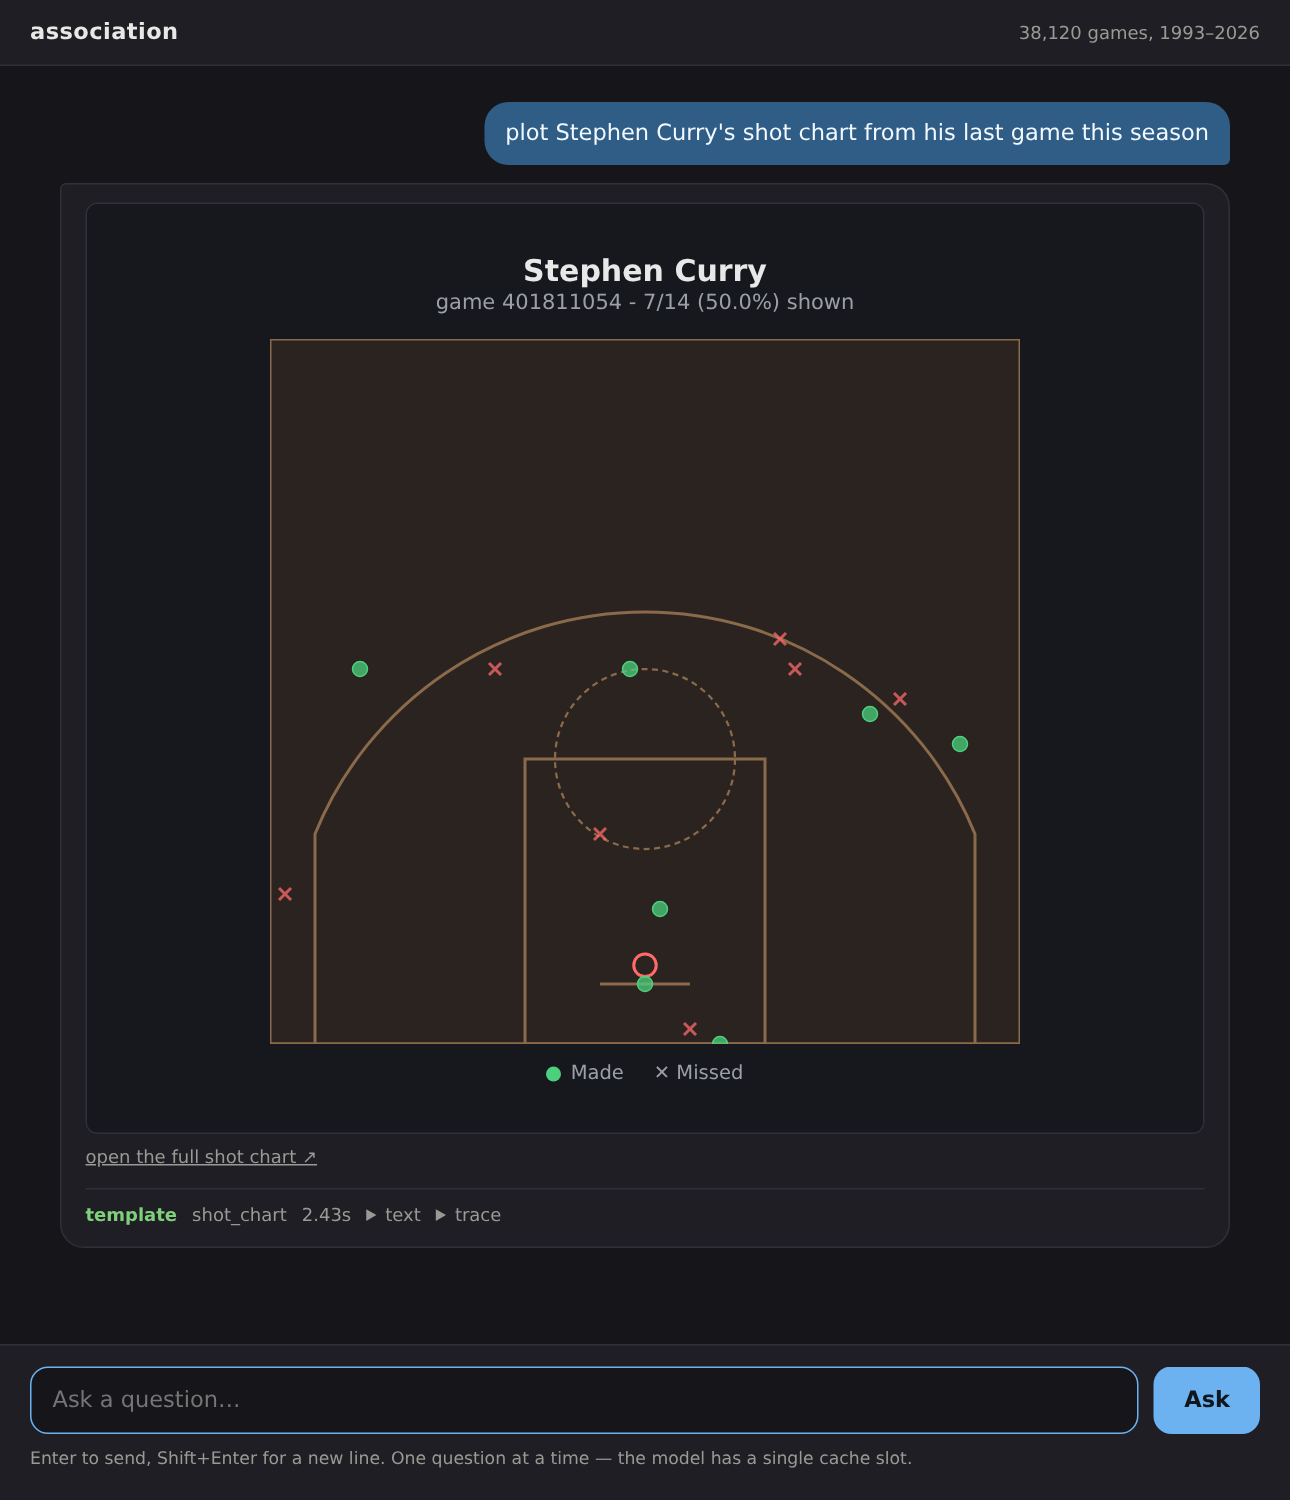
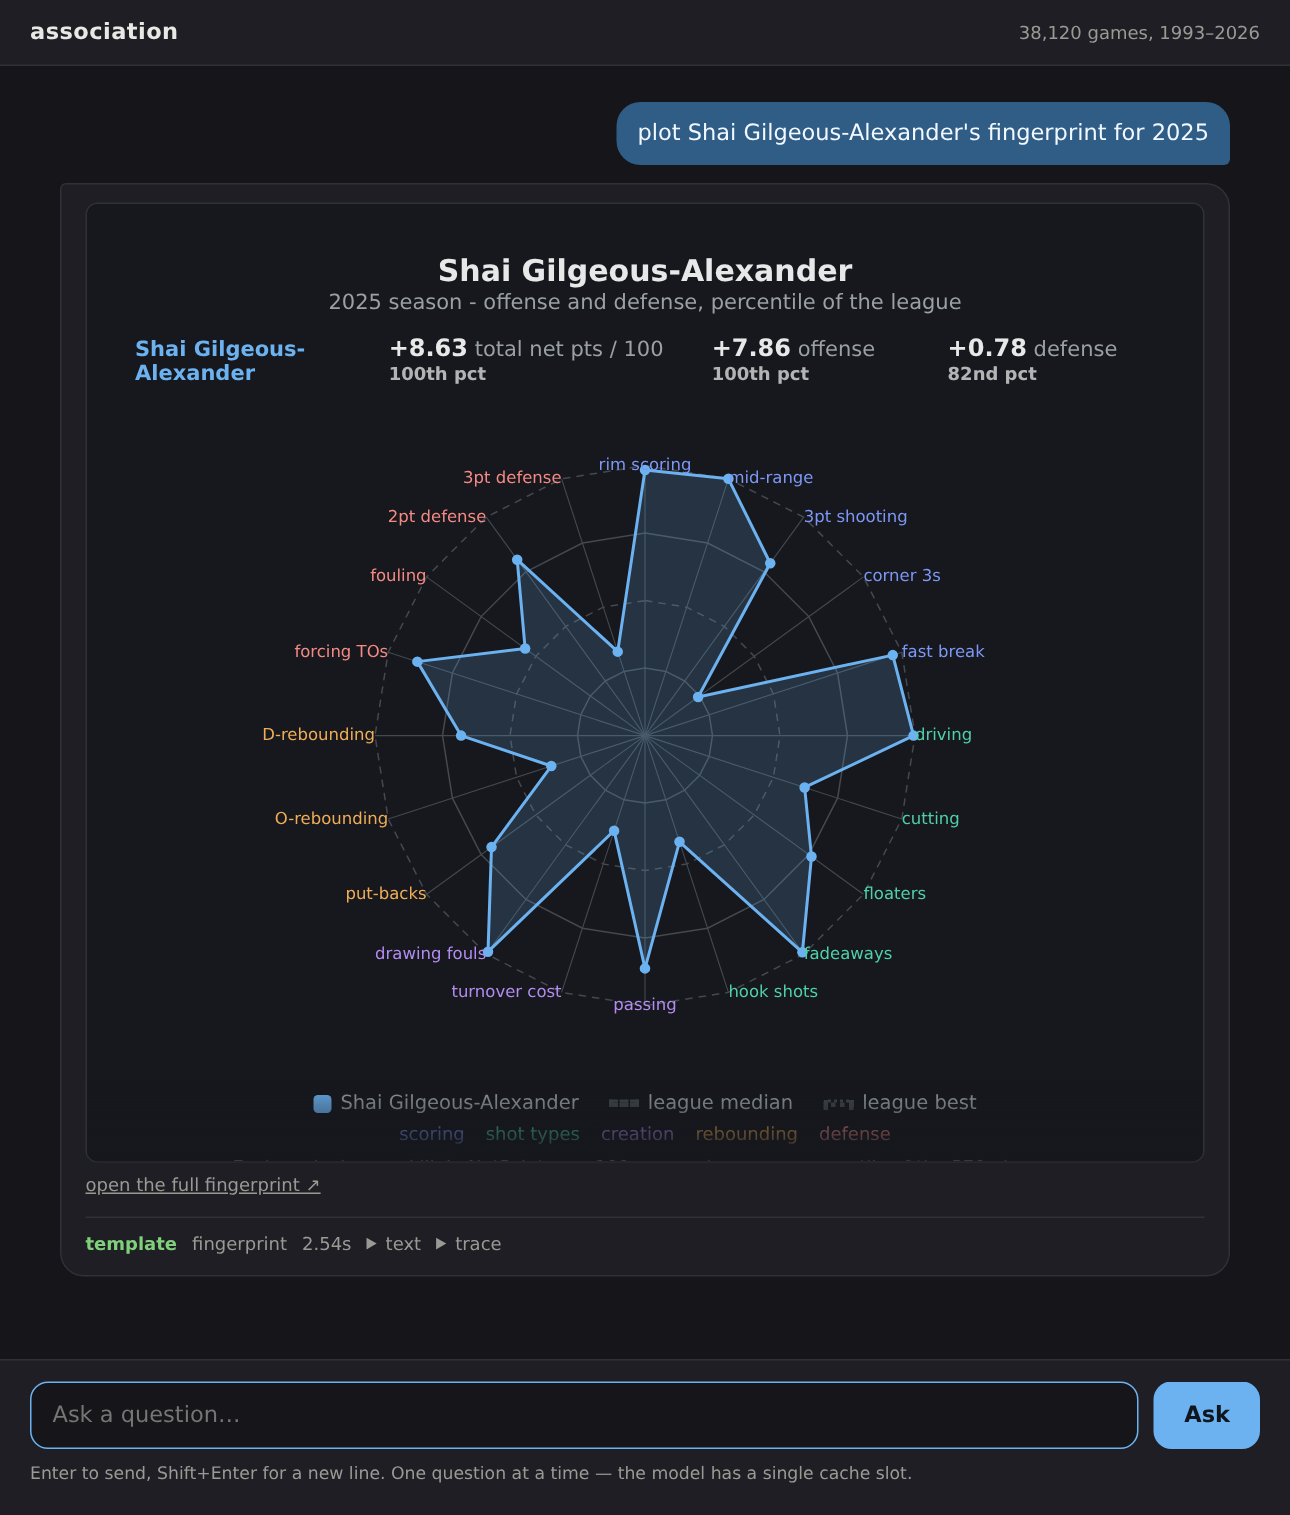
Fade the lower edge of a chart that is taller than its frame
An inline chart is capped and scrolls past the cap, but it clipped its content
dead flat - the fingerprint's legend was cut mid-line - which reads as a
rendering fault rather than as somewhere to scroll.

Three things make the cue honest rather than decorative. It appears only when
there is actually more below, and is dropped at the end of the scroll, where it
would otherwise sit over the last row of a fingerprint's table. It is painted
in the CHART's background colour, read off the document inside the frame,
because a chart page sets its own rather than inheriting this page's --panel.
And the cap is read back out of CSS with getComputedStyle rather than repeated
as a number in the JavaScript, where it would quietly stop matching.

The README's second screenshot is now the fingerprint rather than the shot
chart. The shot chart was chosen because it fit under the cap and drew whole,
which was a way around the clipping; with the clipping fixed, the chart that
demonstrates the cue is the better one to show.

diff --git a/src/association/web/static/index.html b/src/association/web/static/index.html
@@ -164,6 +164,23 @@
     max-height: 640px;
     background: var(--panel);
   }
+  .artifact-frame { position: relative; }
+  /* Only while there is more below: a capped frame otherwise clips its content
+     dead flat, which reads as a rendering fault rather than as somewhere to
+     scroll. Painted in the CHART's own background - read off the document
+     inside, since a chart page sets its own, not this page's --panel - and
+     transparent to clicks and wheel events so it never intercepts a scroll. */
+  .artifact-frame.capped::after {
+    content: "";
+    position: absolute;
+    left: 1px;
+    right: 1px;
+    bottom: 1px;
+    height: 54px;
+    border-radius: 0 0 7px 7px;
+    background: linear-gradient(to bottom, transparent, var(--artifact-bg, var(--panel)));
+    pointer-events: none;
+  }
   .artifact-link {
     display: inline-block;
     margin-top: 6px;
@@ -493,6 +510,7 @@
   // version that risks nothing. Revisit once the look is settled.
   function chartFrame(art) {
     const wrap = el("div");
+    const box = el("div", "artifact-frame");
     const frame = el("iframe", "artifact");
     frame.src = "/api/artifacts/" + encodeURIComponent(art.name);
     frame.title = art.kind.replace(/_/g, " ");
@@ -505,14 +523,14 @@
     frame.height = "460";
     frame.addEventListener("load", () => {
       try {
-        const doc = frame.contentDocument;
-        if (doc) frame.height = String(doc.documentElement.scrollHeight + 2);
+        fit(frame, box);
       } catch (err) {
         /* keep the default height - a chart at the wrong height still draws */
       }
       scroll();
     });
-    wrap.appendChild(frame);
+    box.appendChild(frame);
+    wrap.appendChild(box);
     // "full" rather than "open": a fingerprint is taller than the cap above,
     // so the frame scrolls, and the useful thing to say is that there is more
     // of it - not merely that it can also be opened elsewhere.
@@ -522,6 +540,29 @@
     link.rel = "noopener";
     wrap.appendChild(link);
     return wrap;
+  }
+
+  // Size the frame to the chart it loaded, and mark it when there is more of
+  // the chart than fits.
+  function fit(frame, box) {
+    const doc = frame.contentDocument;
+    if (!doc) return;
+    frame.height = String(doc.documentElement.scrollHeight + 2);
+    // The cap is a CSS rule; read it back rather than repeating the number
+    // here, where it would quietly stop matching the stylesheet.
+    const cap = parseFloat(getComputedStyle(frame).maxHeight);
+    if (!Number.isFinite(cap)) return;
+    const bg = getComputedStyle(doc.body).backgroundColor;
+    if (bg) box.style.setProperty("--artifact-bg", bg);
+    const scroller = doc.scrollingElement || doc.documentElement;
+    const update = () => {
+      const more = scroller.scrollHeight - scroller.clientHeight - scroller.scrollTop > 2;
+      // Dropped at the end of the scroll: a fade that stayed would sit over
+      // the last row of a fingerprint's table, which is real content.
+      box.classList.toggle("capped", more);
+    };
+    doc.addEventListener("scroll", update, { passive: true });
+    update();
   }
 
   function renderAnswer(a) {

diff --git a/README.md b/README.md
@@ -29,7 +29,7 @@ Shot charts and NetPoints fingerprints draw in the conversation, served from
 the same directory the CLI writes to — so a chart made at the terminal opens in
 the browser, and the CLI still writes the identical standalone file:
 
-<img src="docs/_static/web_chart_dark_example.png" alt="The association web interface in dark mode, showing a half-court shot chart for Stephen Curry drawn inline in the conversation, with a link to open the full standalone file underneath" width="640">
+<img src="docs/_static/web_chart_dark_example.png" alt="The association web interface in dark mode, showing a NetPoints fingerprint radar for Shai Gilgeous-Alexander drawn inline in the conversation, its lower edge fading out to show there is more of it below, with a link to open the full standalone file underneath" width="640">
 
 The page follows your system theme, and so do the charts — both screenshots
 above are the same build, one light and one dark.

diff --git a/CHANGES.md b/CHANGES.md
@@ -14,6 +14,16 @@ grow continuously.
 Sections dated rather than numbered predate the first release, when the project
 had no published version to be compatible with.
 
+## Unreleased
+- **A chart taller than its frame now says so.** An inline chart is capped, and
+  past the cap the frame scrolls - but it clipped its content dead flat, which
+  reads as a rendering fault rather than as somewhere to scroll. The lower edge
+  now fades out, and only while there is more below: the fade is dropped at the
+  end of the scroll, where it would otherwise sit over the last row of a
+  fingerprint's table. It is painted in the chart's own background colour, read
+  off the document inside the frame, because a chart page sets its own rather
+  than inheriting the app's.
+
 ## 2.0.0 - 2026-09-09
 - **Charts render inline in the web interface.** A question that draws a shot
   chart or a fingerprint now shows it in the conversation instead of naming a
